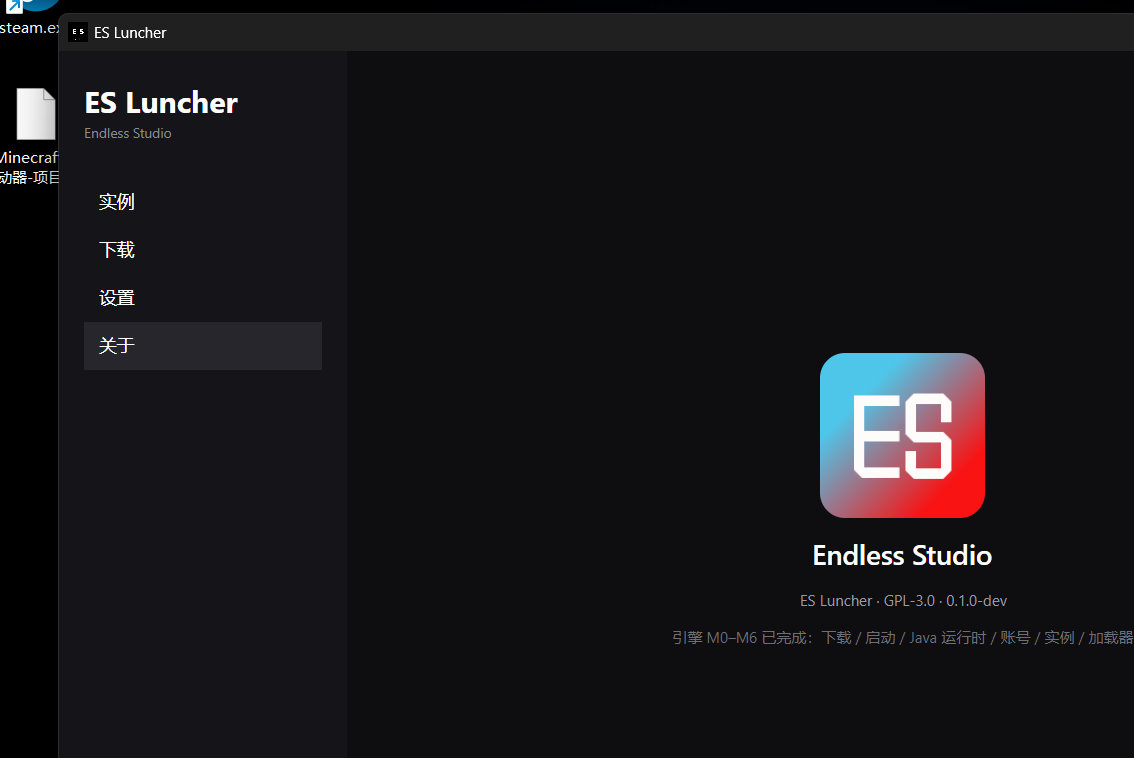
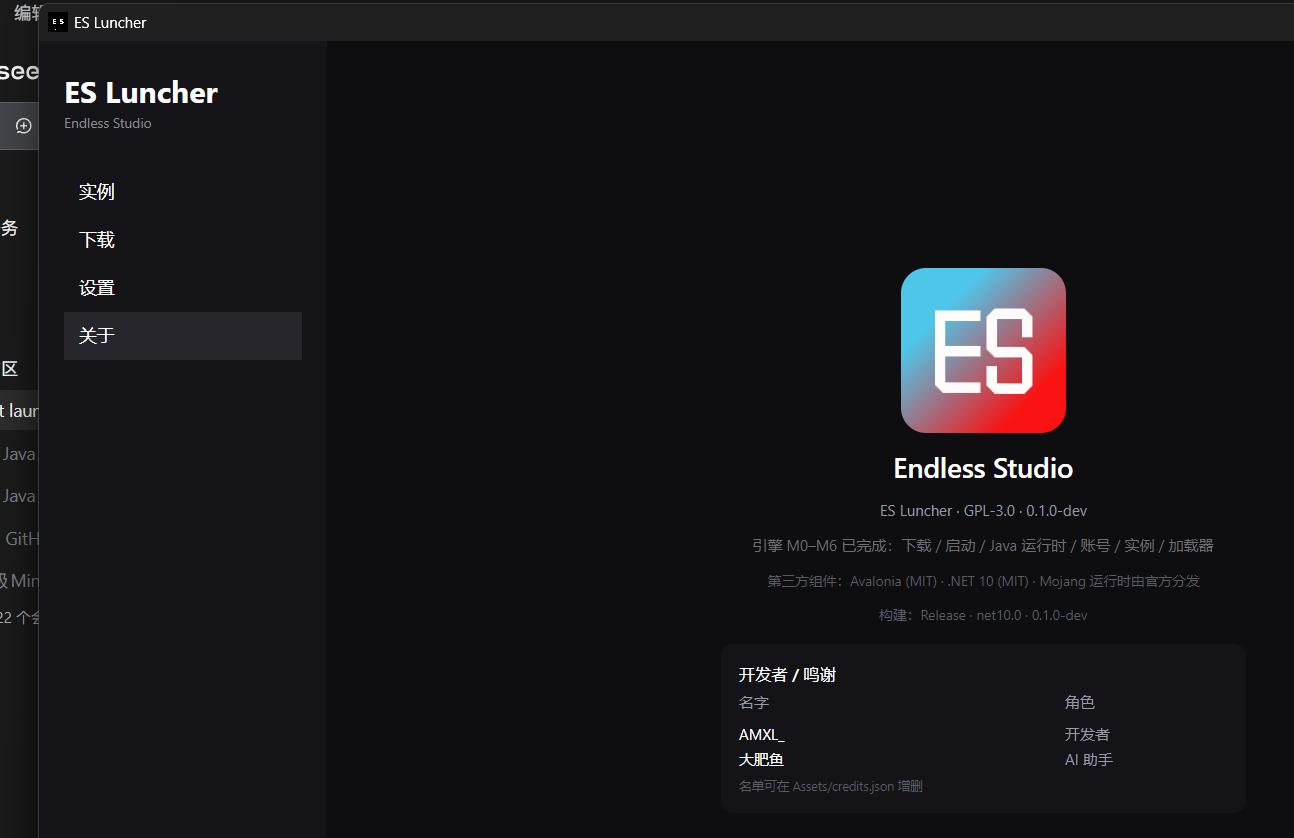
feat(about): credits table driven by credits.json
About page keeps studio logo/name on top and adds an extensible credits table (name/role) loaded from Assets/credits.json; seeded with AMXL_ (开发者) and 大肥鱼 (AI 助手). Header note documents how to extend.

diff --git a/src/EsLuncher.App/MainWindow.axaml.cs b/src/EsLuncher.App/MainWindow.axaml.cs
@@ -1,4 +1,5 @@
 using System.Diagnostics;
+using System.Text.Json;
 using Avalonia.Controls;
 using Avalonia.Interactivity;
 using Avalonia.Media.Imaging;
@@ -26,6 +27,7 @@ public partial class MainWindow : Window
 
         Icon = new WindowIcon(AssetLoader.Open(new Uri("avares://EsLuncher/Assets/es-luncher-256.png")));
         StudioLogo.Source = new Bitmap(AssetLoader.Open(new Uri("avares://EsLuncher/Assets/endless-studio-logo.jpg")));
+        LoadCredits();
         Localization.Language = AppServices.Settings.Language;
         ApplyLanguage();
 
@@ -108,6 +110,26 @@ public partial class MainWindow : Window
     }
 
     private InstanceItem[] _allInstances = [];
+
+    private void LoadCredits()
+    {
+        try
+        {
+            using var stream = AssetLoader.Open(new Uri("avares://EsLuncher/Assets/credits.json"));
+            using var document = JsonDocument.Parse(stream);
+            var credits = document.RootElement.GetProperty("credits")
+                .EnumerateArray()
+                .Select(entry => new CreditItem(
+                    entry.GetProperty("name").GetString() ?? string.Empty,
+                    entry.TryGetProperty("role", out var role) ? role.GetString() ?? string.Empty : string.Empty))
+                .ToArray();
+            CreditsList.ItemsSource = credits;
+        }
+        catch (Exception exception) when (exception is IOException or JsonException or KeyNotFoundException)
+        {
+            CreditsList.ItemsSource = new[] { new CreditItem("(credits.json 读取失败)", string.Empty) };
+        }
+    }
 
     private void ApplyLanguage()
     {
@@ -608,6 +630,9 @@ public sealed class InstanceItem(InstanceConfig config)
         => $"{Config.MemoryMb} MB · {Config.Username ?? "Player"} · {Config.CreatedAt:yyyy-MM-dd}"
            + (string.IsNullOrWhiteSpace(Config.Group) ? string.Empty : $" · {Config.Group}");
 }
+
+/// <summary>鸣谢名单的一行（来源 Assets/credits.json）。</summary>
+public sealed record CreditItem(string Name, string Role);
 
 /// <summary>内容列表的展示项。</summary>
 public sealed class ContentItem(ContentFile file, string? metadata)

diff --git a/docs/M7-ui.md b/docs/M7-ui.md
@@ -59,6 +59,15 @@
 - 诊断窗错误行支持**搜索过滤**、自动换行；窗口加高保证底部按钮可见
 - 内容面板按类型显示按钮（检查更新 / 备份世界 / 上移下移），不再堆一排无关按钮
 
+### 关于页 · 鸣谢表
+
+![关于页](img/m7-about.png)
+
+- 上方：工作室图标 + **Endless Studio**（按约定只在关于页出现）
+- 下方：**开发者 / 鸣谢** 表（名字 / 角色），数据来自 `src/EsLuncher.App/Assets/credits.json`
+- 当前名单：`AMXL_`（开发者）、`大肥鱼`（AI 助手）
+- **可扩展**：直接编辑 `credits.json` 增删条目并重新构建，不需要改代码
+
 ### i18n 基础框架
 
 ![English UI](img/m7-i18n-en.png)
